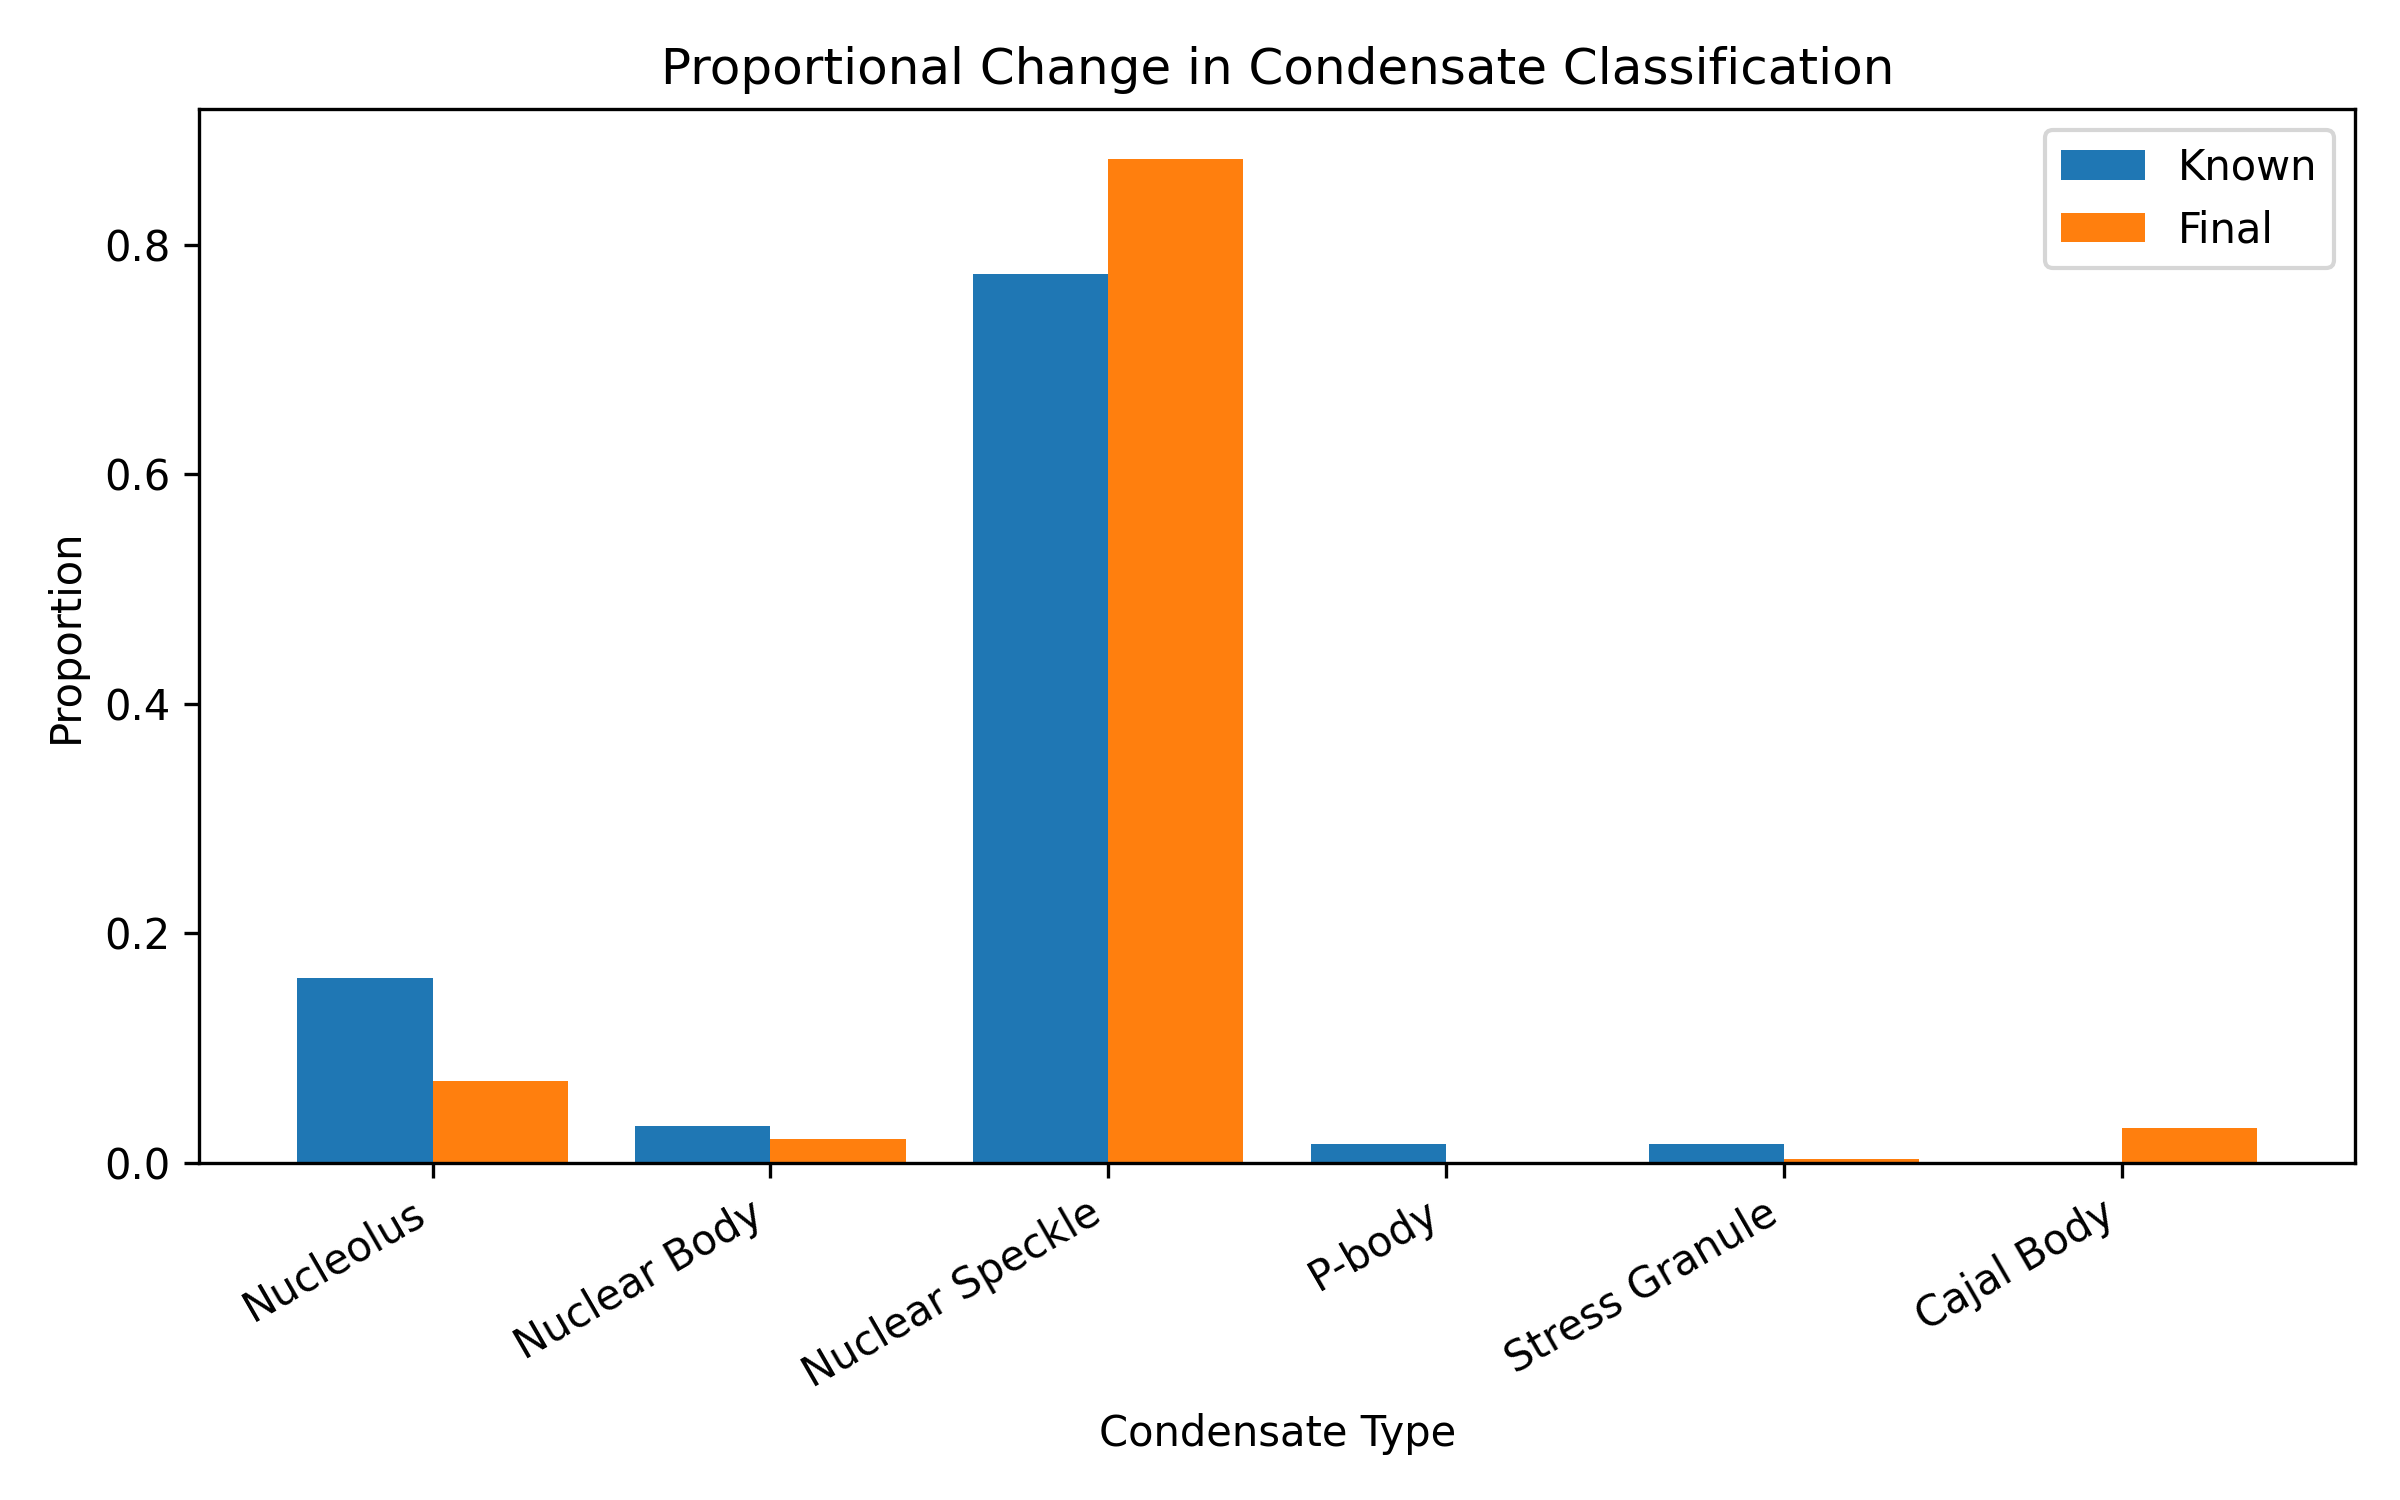
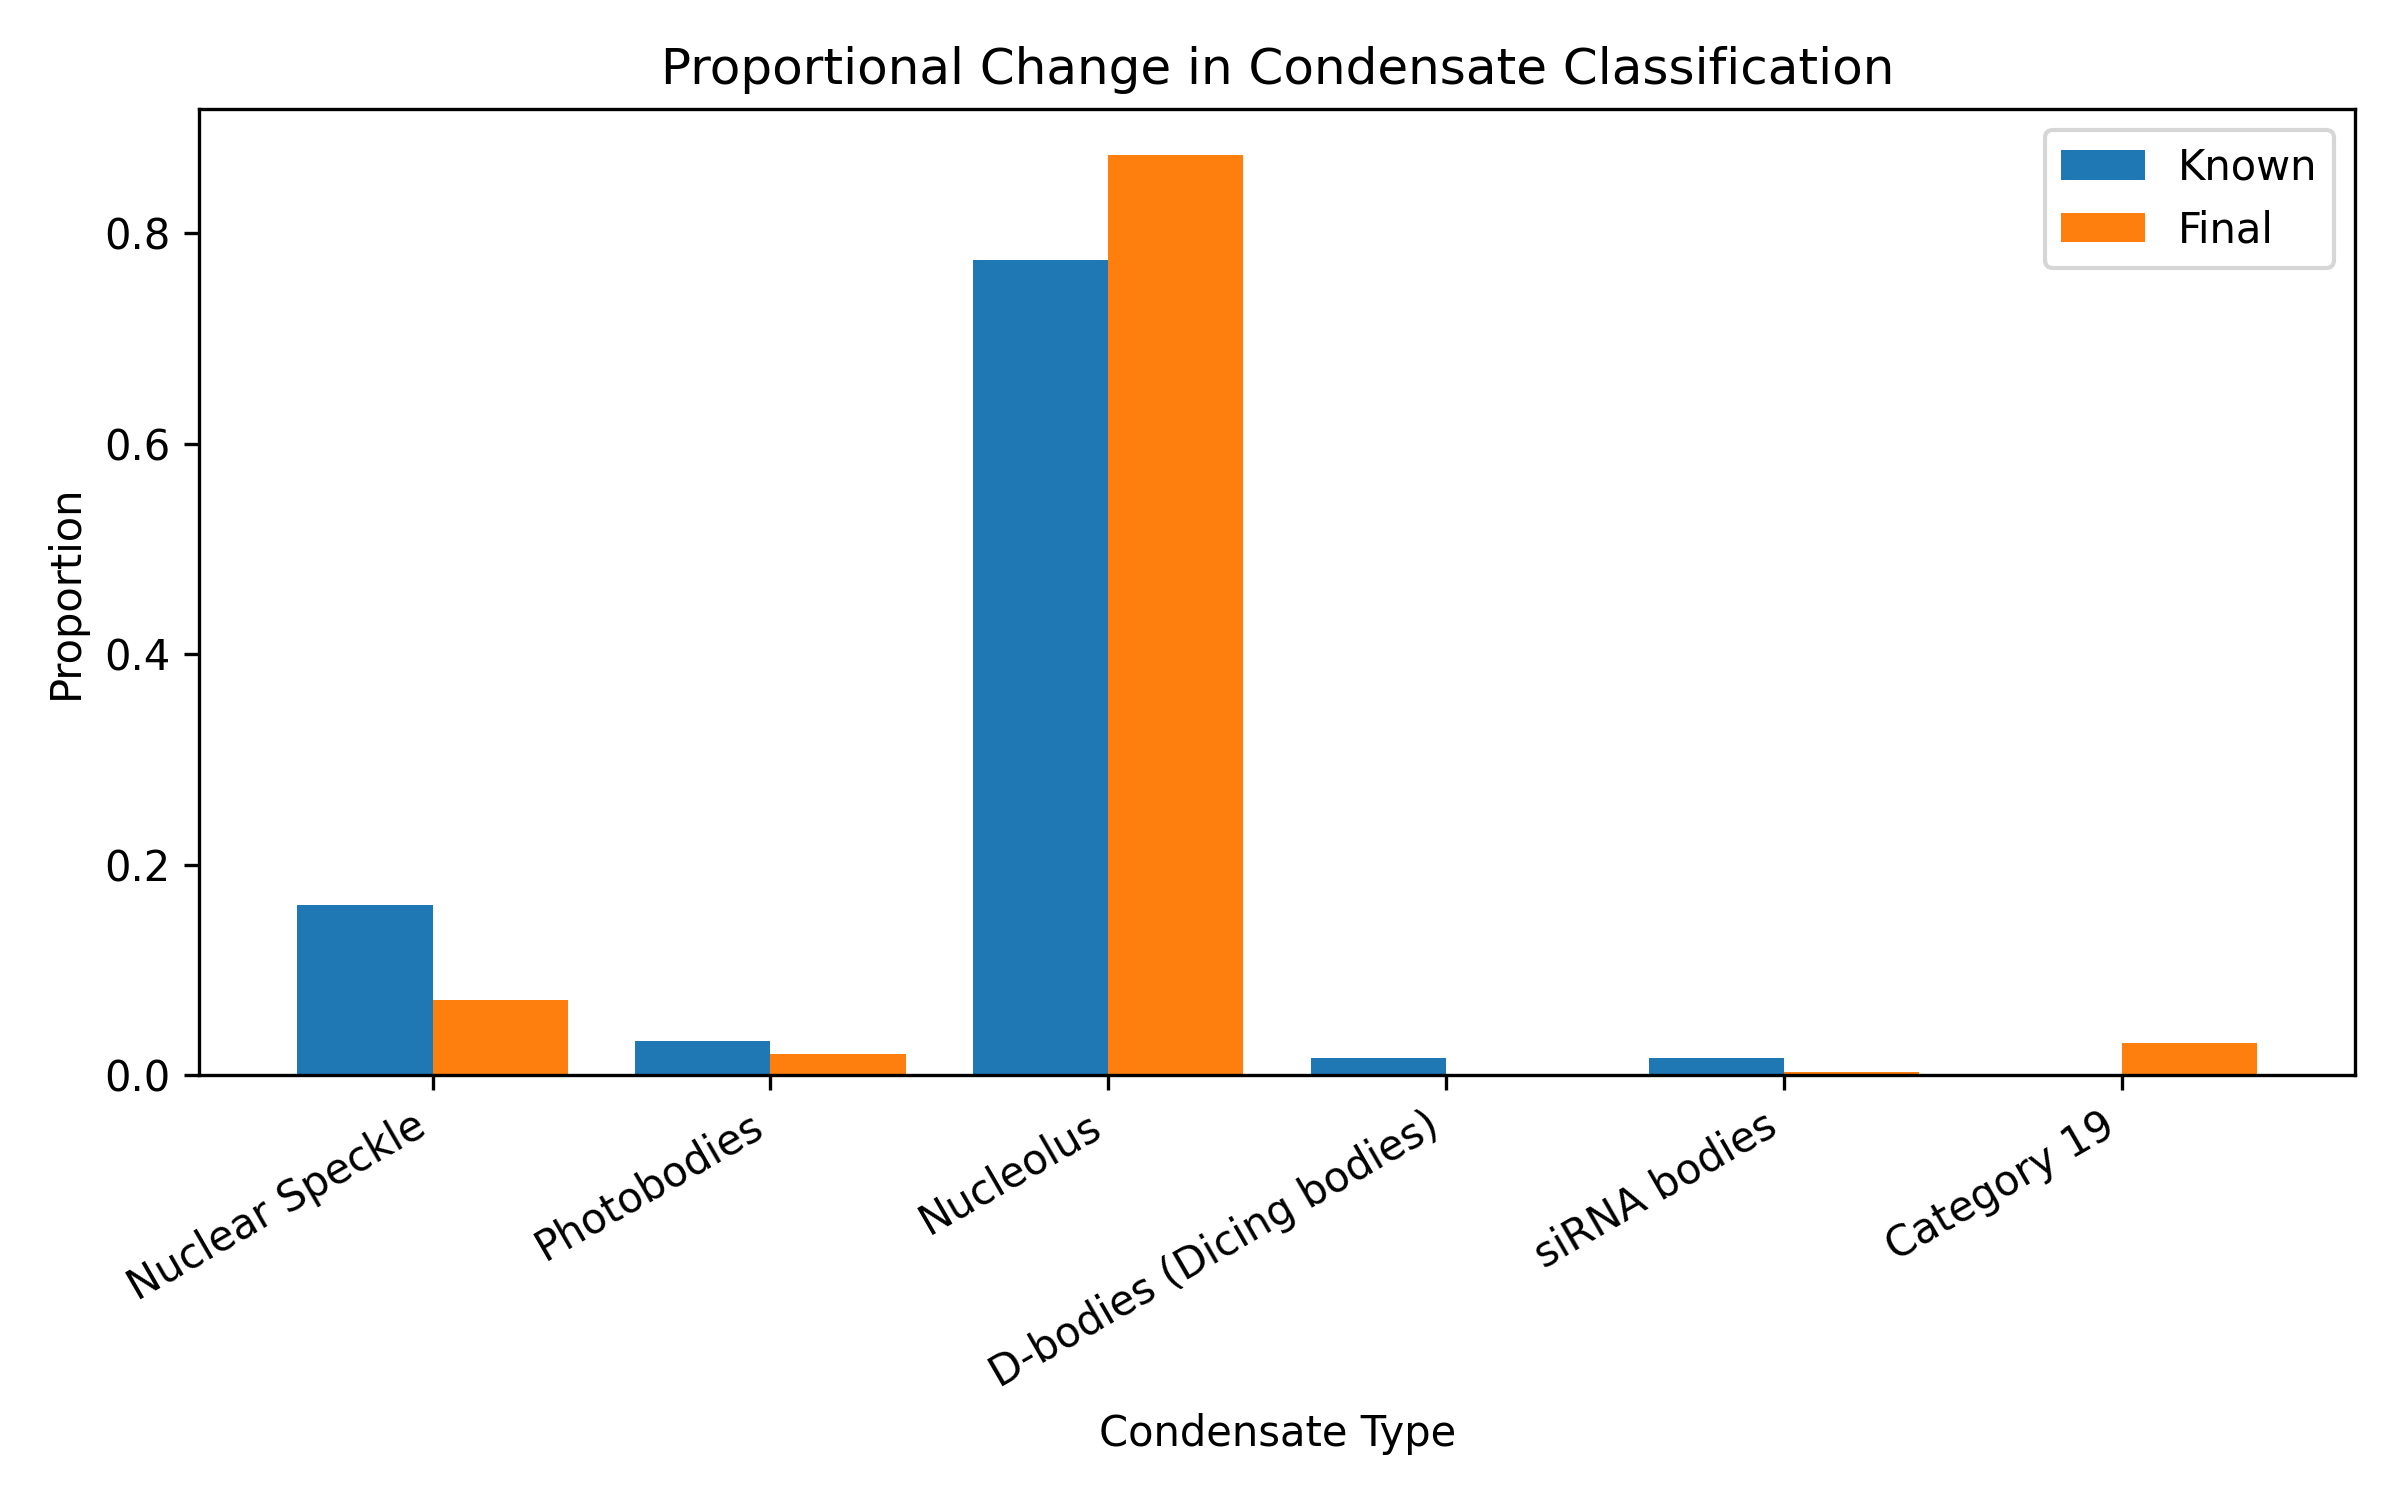
fixed labels

diff --git a/Plotting/double_bar_graph.py b/Plotting/double_bar_graph.py
@@ -6,13 +6,26 @@ df = pd.read_csv("./idr_labelspreading_results.csv")
 
 # --- Label → Condensate name mapping ---
 label_map = {
-    -1: "Unknown",
-    1: "Nucleolus",
-    2: "Nuclear Body",
-    6: "Nuclear Speckle",
-    7: "P-body",
-    16: "Stress Granule",
-    19: "Cajal Body"
+    -1: "Category -1",
+    1: "Nuclear Speckle",
+    2: "Photobodies",
+    3:"ELF3 condensates",
+    4:"GDACs (GBPL defense-activated condensates)",
+    5:"FCA condensates",
+    6:"Nucleolus",
+    7:"D-bodies (Dicing bodies)",
+    8:"Cajal bodies",
+    9:"TMF condensates",
+    10:"ARF condensates",
+    11:"SINCs (SA-induced NPR1 condensates)",
+    12:"FLOE condensates,FLOE1",
+    13:"Stress granules",
+    14:"Processing bodies",
+    15:"LEA condensates",
+    16:"siRNA bodies",
+    17:"STT condensates",
+    18:"Pyrenoid Matrix",
+    19:"Category 19"
 }
 
 # --- Filter out unknowns from known labels ---
